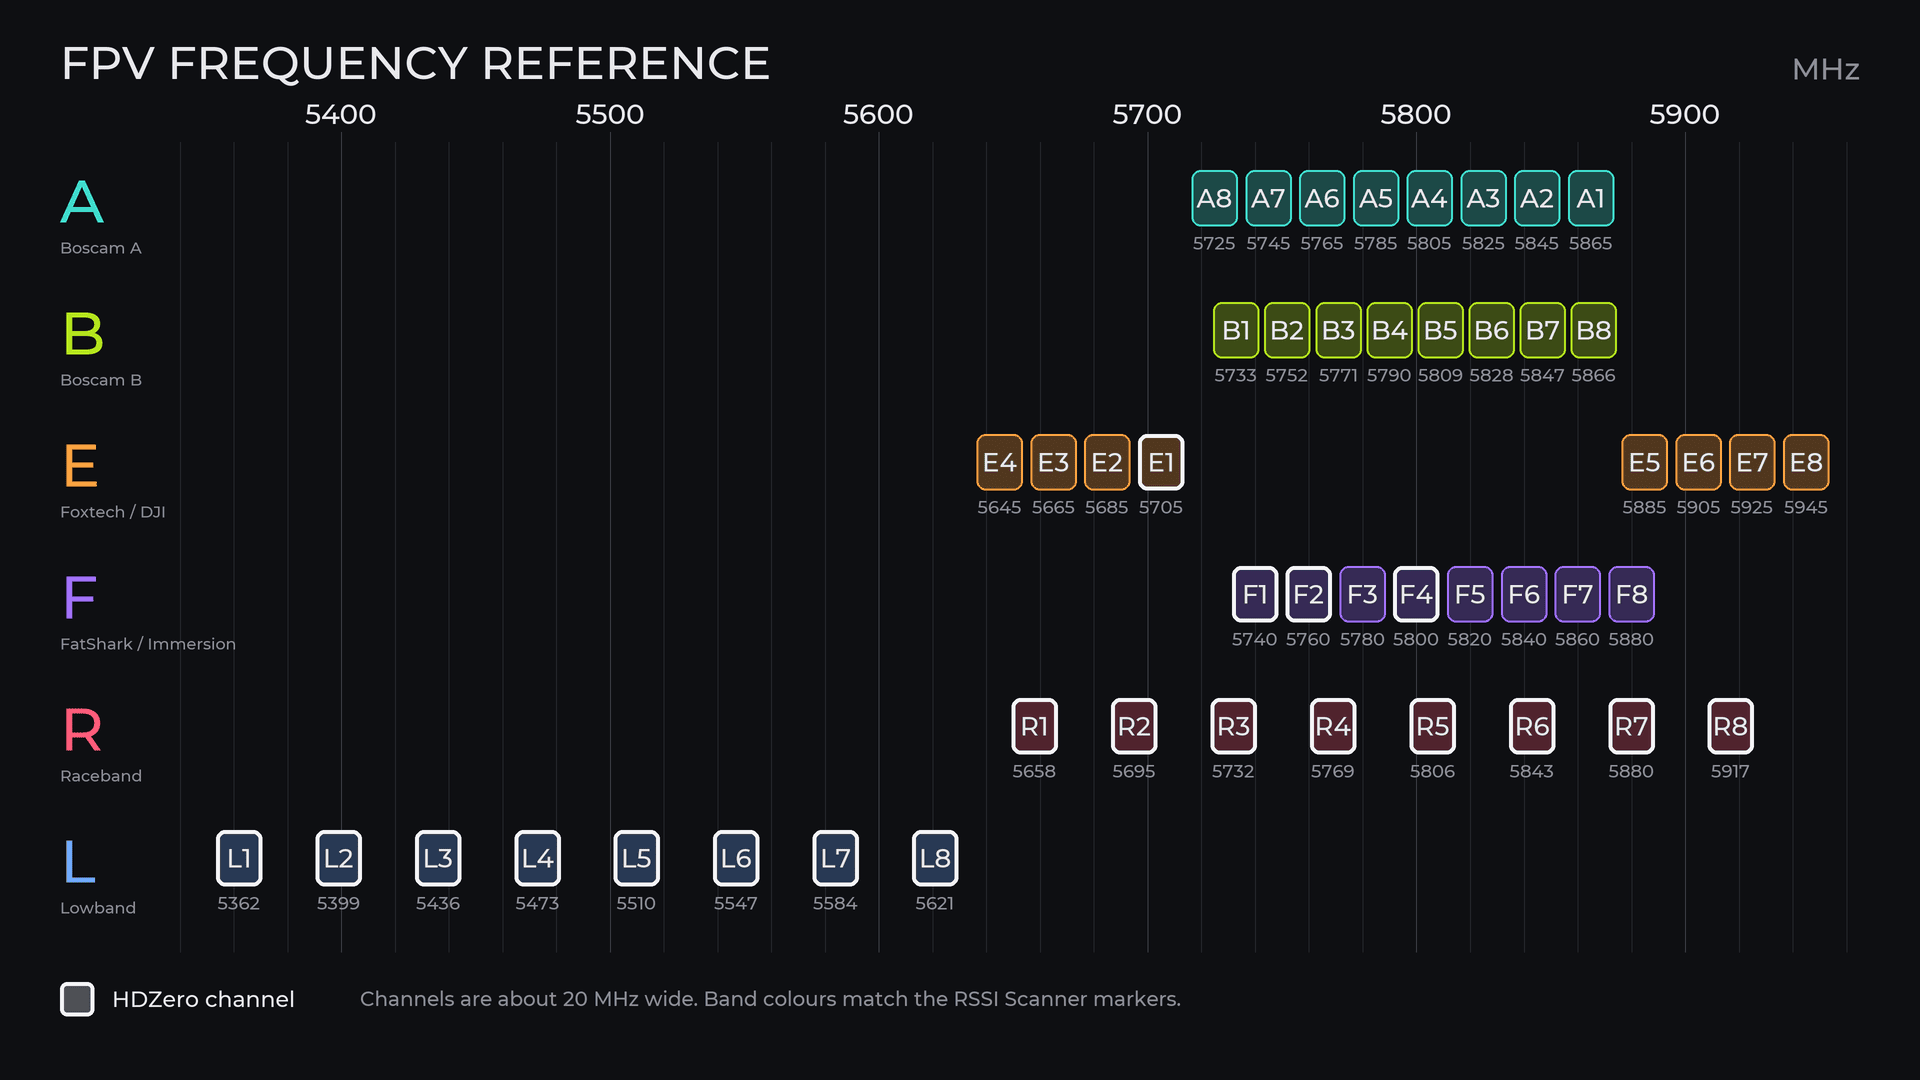
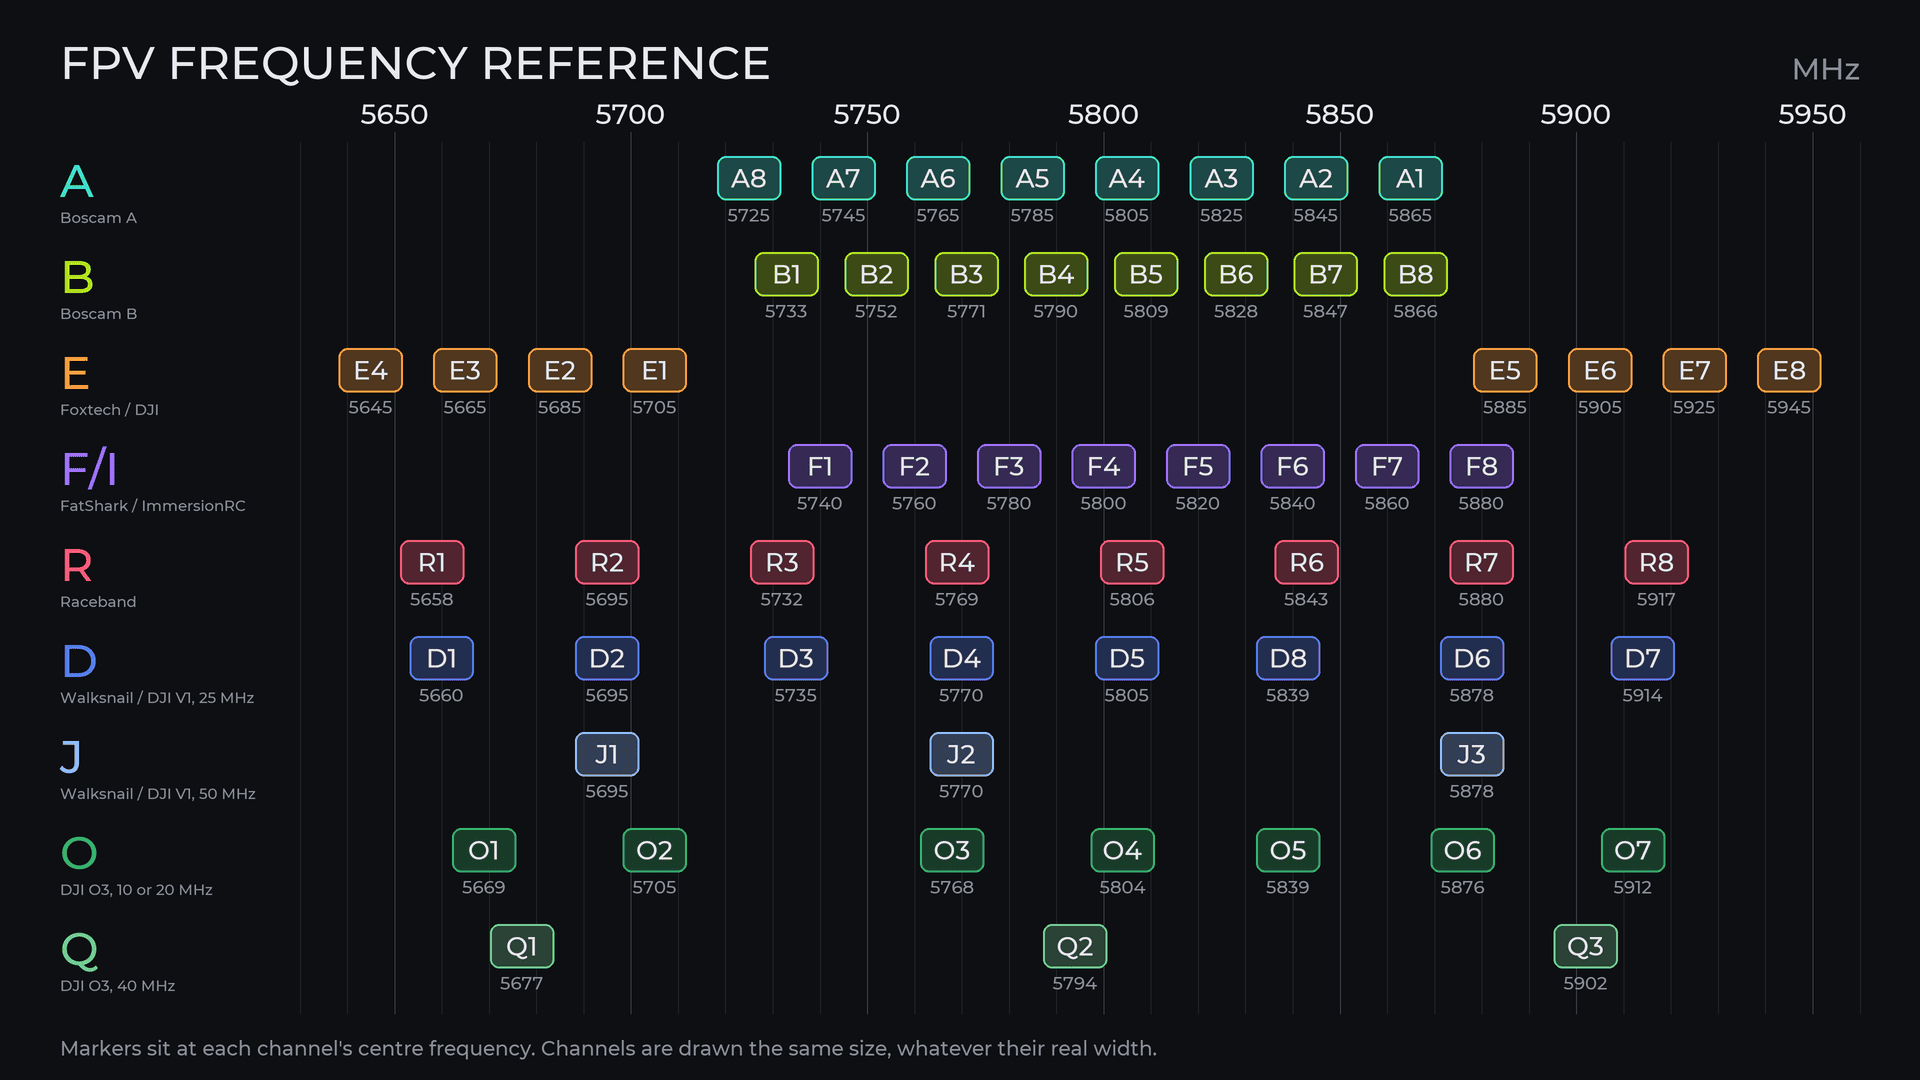
Frequency Chart: bands A, B, E, F/I, R, D, J, O and Q
Redraw the chart with the analog bands A, B, E, F/I and R plus the digital
D, J, O and Q plans of the Walksnail / DJI systems, on a linear 5630-5960 MHz
axis. Drop the Lowband row and the HDZero outlines, which did not match the
reference band tables. Still generated by utilities/gen_freq_chart.py, and
still light (about 129 KB for the HD and FHD images together).

diff --git a/utilities/gen_freq_chart.py b/utilities/gen_freq_chart.py
@@ -2,9 +2,9 @@
 """Draws the Frequency Chart shown in Tools (freq_chart.png, HD and FHD).
 
 An original drawing: the band frequencies are plain technical data (the
-standard analog 5.8 GHz band plans, and HDZero's channel list from
-src/core/scan_core.c). Dark background, same band colours as the RSSI Scanner
-markers, Montserrat (the UI font, in utilities/font).
+standard analog 5.8 GHz band plans A, B, E, F/I and R, and the digital D, J, O
+and Q channel plans of the Walksnail / DJI systems). Dark background,
+Montserrat (the UI font, in utilities/font).
 
     python3 utilities/gen_freq_chart.py OUT_DIR    # writes OUT_DIR/freq_chart_{hd,fhd}.png
 
@@ -21,26 +21,37 @@ FONT = os.path.join(os.path.dirname(__file__), "font", "Montserrat-Medium.ttf")
 BG = (14, 15, 18)
 TEXT = (232, 232, 236)
 DIM = (140, 143, 152)
-GRID = (38, 40, 46)
+GRID = (34, 36, 42)
+GRID_MAJOR = (60, 63, 72)
 
-F_MIN, F_MAX = 5340, 5965
+F_MIN, F_MAX = 5630, 5960
 
-# name, colour, descriptor, channel frequencies 1..8
-ANALOG = [
-    ("A", (64, 224, 208), "Boscam A", [5865, 5845, 5825, 5805, 5785, 5765, 5745, 5725]),
-    ("B", (181, 230, 29), "Boscam B", [5733, 5752, 5771, 5790, 5809, 5828, 5847, 5866]),
-    ("E", (255, 160, 64), "Foxtech / DJI", [5705, 5685, 5665, 5645, 5885, 5905, 5925, 5945]),
-    ("F", (160, 112, 255), "FatShark / Immersion", [5740, 5760, 5780, 5800, 5820, 5840, 5860, 5880]),
-    ("R", (255, 92, 122), "Raceband", [5658, 5695, 5732, 5769, 5806, 5843, 5880, 5917]),
-    ("L", (110, 168, 255), "Lowband", [5362, 5399, 5436, 5473, 5510, 5547, 5584, 5621]),
+
+def numbered(letter, freqs):
+    return [("%s%d" % (letter, i + 1), f) for i, f in enumerate(freqs)]
+
+
+# key, row label, colour, descriptor, [(channel name, MHz), ...]
+BANDS = [
+    ("A", "A", (64, 224, 208), "Boscam A",
+     numbered("A", [5865, 5845, 5825, 5805, 5785, 5765, 5745, 5725])),
+    ("B", "B", (181, 230, 29), "Boscam B",
+     numbered("B", [5733, 5752, 5771, 5790, 5809, 5828, 5847, 5866])),
+    ("E", "E", (255, 160, 64), "Foxtech / DJI",
+     numbered("E", [5705, 5685, 5665, 5645, 5885, 5905, 5925, 5945])),
+    ("F", "F/I", (160, 112, 255), "FatShark / ImmersionRC",
+     numbered("F", [5740, 5760, 5780, 5800, 5820, 5840, 5860, 5880])),
+    ("R", "R", (255, 92, 122), "Raceband",
+     numbered("R", [5658, 5695, 5732, 5769, 5806, 5843, 5880, 5917])),
+    ("D", "D", (84, 128, 240), "Walksnail / DJI V1, 25 MHz",
+     numbered("D", [5660, 5695, 5735, 5770, 5805, 5878, 5914, 5839])),
+    ("J", "J", (140, 186, 255), "Walksnail / DJI V1, 50 MHz",
+     numbered("J", [5695, 5770, 5878])),
+    ("O", "O", (52, 178, 102), "DJI O3, 10 or 20 MHz",
+     numbered("O", [5669, 5705, 5768, 5804, 5839, 5876, 5912])),
+    ("Q", "Q", (118, 204, 150), "DJI O3, 40 MHz",
+     numbered("Q", [5677, 5794, 5902])),
 ]
-
-# HDZero channels (src/core/scan_core.c): Raceband R1-R8 and Lowband L1-L8,
-# plus four extra Raceband channels that sit at E1, F1, F2 and F4. They are
-# outlined in white inside their band row instead of getting a row of their own.
-HDZ_WHITE = (245, 245, 245)
-HDZERO = {("R", i) for i in range(1, 9)} | {("L", i) for i in range(1, 9)} | \
-         {("E", 1), ("F", 1), ("F", 2), ("F", 4)}
 
 SS = 2  # supersampling for smooth edges
 
@@ -62,51 +73,46 @@ def render(w, h):
     img = Image.new("RGB", (W, H), BG)
     d = ImageDraw.Draw(img)
 
-    x0, x1 = px(180), px(1860)
+    x0, x1 = px(300), px(1860)
     y_axis = px(132)
 
     def fx(f):
         return x0 + (f - F_MIN) * (x1 - x0) // (F_MAX - F_MIN)
 
-    rows = len(ANALOG)
-    y_rows = px(160)
-    pitch = px(132)
+    rows = len(BANDS)
+    y_rows = px(150)
+    pitch = px(96)
     y_end = y_rows + rows * pitch
 
     d.text((px(60), px(34)), "FPV FREQUENCY REFERENCE", font=font(46), fill=TEXT)
     d.text((px(1860), px(50)), "MHz", font=font(30), fill=DIM, anchor="ra")
 
-    # axis: faint line every 20 MHz, stronger every 100
-    for f in range(5340, F_MAX + 1, 20):
-        major = f % 100 == 0
+    # axis: faint line every 10 MHz, stronger and labelled every 50
+    for f in range(5630, F_MAX + 1, 10):
+        major = f % 50 == 0
         d.line([(fx(f), y_axis + (0 if major else px(10))), (fx(f), y_end)],
-               fill=(60, 63, 72) if major else GRID, width=max(1, px(1)))
-    for f in range(5400, 5901, 100):
+               fill=GRID_MAJOR if major else GRID, width=max(1, px(1)))
+    for f in range(5650, 5951, 50):
         d.text((fx(f), y_axis - px(8)), str(f), font=font(28), fill=TEXT, anchor="ms")
 
-    def channel(cx, y, name, freq, color, hdzero):
-        bw, bh = px(46), px(56)
+    def channel(cx, y, name, freq, color):
+        bw, bh = px(64), px(44)
         box = [cx - bw // 2, y, cx + bw // 2, y + bh]
-        d.rounded_rectangle(box, radius=px(9), fill=mix(color, BG, 0.28),
-                            outline=HDZ_WHITE if hdzero else color,
-                            width=max(2, px(4 if hdzero else 2)))
+        d.rounded_rectangle(box, radius=px(9), fill=mix(color, BG, 0.28), outline=color,
+                            width=max(2, px(2)))
         d.text((cx, y + bh // 2), name, font=font(26), fill=TEXT, anchor="mm")
-        d.text((cx, y + bh + px(6)), str(freq), font=font(18), fill=DIM, anchor="ma")
+        d.text((cx, y + bh + px(4)), str(freq), font=font(18), fill=DIM, anchor="ma")
 
-    for r, (letter, color, desc, freqs) in enumerate(ANALOG):
+    for r, (_key, label, color, desc, channels) in enumerate(BANDS):
         y = y_rows + r * pitch
-        d.text((px(60), y + px(4)), letter, font=font(60), fill=color)
-        d.text((px(60), y + px(78)), desc, font=font(16), fill=DIM)
-        for i, f in enumerate(freqs):
-            channel(fx(f), y + px(10), "%s%d" % (letter, i + 1), f, color, (letter, i + 1) in HDZERO)
+        d.text((px(60), y + px(2)), label, font=font(46), fill=color)
+        d.text((px(60), y + px(58)), desc, font=font(15), fill=DIM)
+        for name, f in channels:
+            channel(fx(f), y + px(6), name, f, color)
 
-    # legend
-    ly = y_end + px(30)
-    d.rounded_rectangle([px(60), ly, px(60) + px(34), ly + px(34)], radius=px(7),
-                        fill=mix(HDZ_WHITE, BG, 0.28), outline=HDZ_WHITE, width=max(2, px(4)))
-    d.text((px(112), ly + px(17)), "HDZero channel", font=font(22), fill=TEXT, anchor="lm")
-    d.text((px(360), ly + px(17)), "Channels are about 20 MHz wide. Band colours match the RSSI Scanner markers.",
-           font=font(20), fill=DIM, anchor="lm")
+    d.text((px(60), y_end + px(22)),
+           "Markers sit at each channel's centre frequency. Channels are drawn the same size, whatever their real width.",
+           font=font(20), fill=DIM)
 
     return img.resize((w, h), Image.LANCZOS)
 

diff --git a/README.md b/README.md
@@ -73,9 +73,9 @@ Sarcelle, Monochrome). The selected theme is applied after restarting the goggle
 One "Tools" page groups small utilities that used to be separate menu entries or didn't exist:
 
 - **Focus Chart**: fullscreen focus test pattern. Click again to dismiss.
-- **Frequency Chart**: fullscreen reference of the 5.8 GHz band plans (A, B, E, F, R, Lowband) on a linear
-  frequency axis, with the HDZero channels outlined. It is an original drawing generated by
-  `utilities/gen_freq_chart.py`, not a copy of anyone else's chart. Click again to dismiss.
+- **Frequency Chart**: fullscreen reference of the 5.8 GHz band plans on a linear frequency axis: the
+  analog bands A, B, E, F/I and R, and the digital D, J, O and Q plans of the Walksnail / DJI systems. It is
+  an original drawing generated by `utilities/gen_freq_chart.py`. Click again to dismiss.
 - **RSSI Scanner** (Goggle 2 and Box Pro only): sweeps the built-in analog receiver and plots the RF energy
   per frequency, so activity shows up even when nothing is a valid HDZero signal. Linear frequency axis,
   mV scale that auto-ranges from a 640-1200 mV base and widens when a reading falls outside it, and
